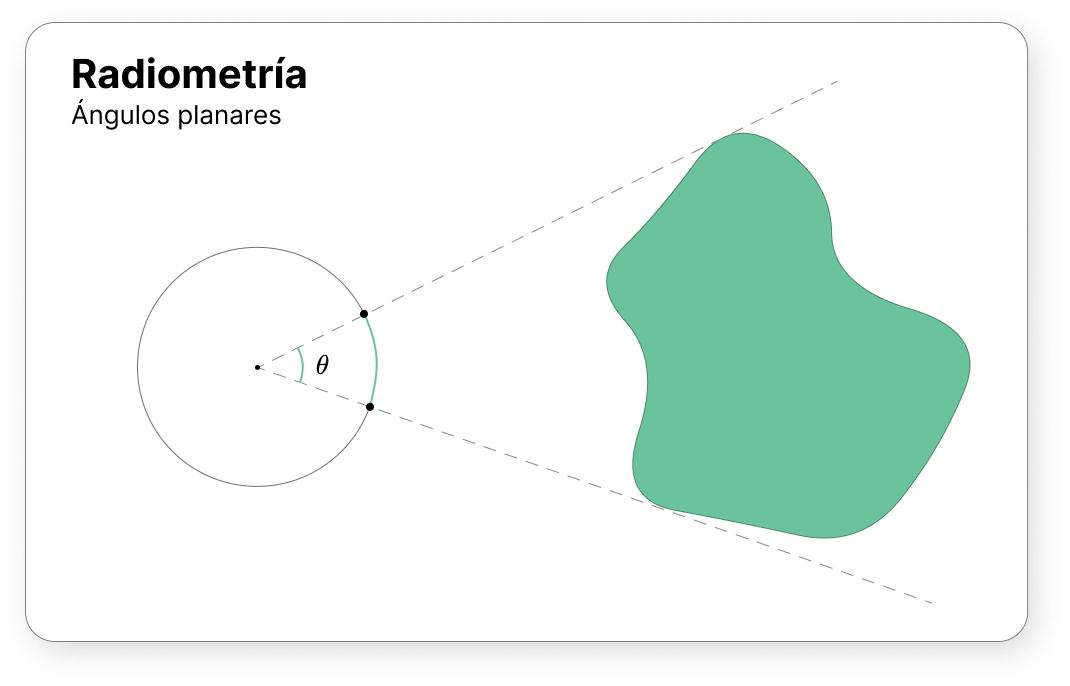
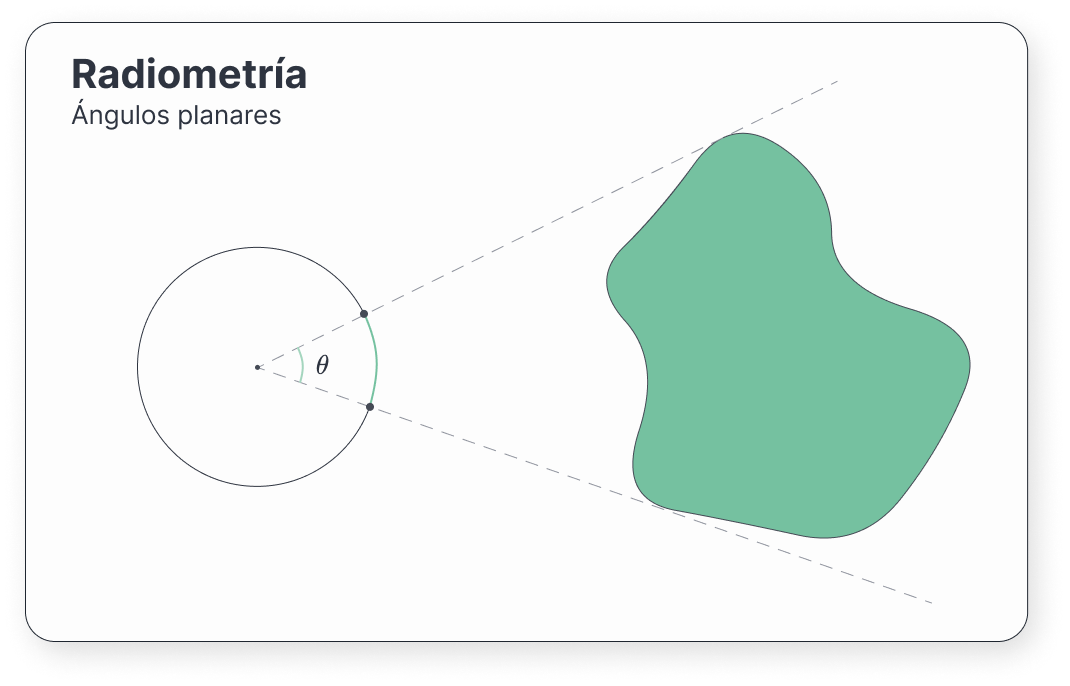
[:notebook:] Añado la paleta de colores

Changed region(s): [[0.0617, 0.0612, 0.3084, 0.1837], [0.2776, 0.5204, 0.3084, 0.551]]

diff --git a/docs/headers/style.css b/docs/headers/style.css
@@ -6,6 +6,44 @@
 
   --b-bg-1: #fdfcfc;
   --b-bg-2: #f7f7f7;
+
+  --blanco-100: hsla(0, 0%, 99%, 1);
+  --blanco-200: hsla(240, 8%, 95%, 1);
+  --gris-300  : hsla(218, 11%, 85%, 1);
+  --gris-500  : hsla(222, 7%, 59%, 1);
+  --negro-700 : hsla(221, 10%, 30%, 1);
+  --negro-800 : hsla(220, 16%, 22%, 1);
+  --negro-900 : hsla(215, 22%, 15%, 1);
+
+  --rojo-clarisimo : hsla(356, 52%, 88%, 1);
+  --rojo-claro     : hsla(357, 47%, 74%, 1);
+  --rojo-primario  : hsla(354, 42%, 56%, 1);
+  --rojo-oscuro    : hsla(352, 28%, 46%, 1);
+  --rojo-oscurisimo: hsla(340, 18%, 33%, 1);
+
+  --naranja-clarisimo : hsla(16, 89%, 89%, 1);
+  --naranja-claro     : hsla(17, 86%, 81%, 1);
+  --naranja-primario  : hsla(17, 77%, 68%, 1);
+  --naranja-oscuro    : hsla(14, 30%, 53%, 1);
+  --naranja-oscurisimo: hsla(4, 15%, 36%, 1);
+
+  --amarillo-clarisimo : hsla(44, 100%, 91%, 1);
+  --amarillo-claro     : hsla(44, 100%, 82%, 1);
+  --amarillo-primario  : hsla(47, 95%, 69%, 1);
+  --amarillo-oscuro    : hsla(45, 35%, 53%, 1);
+  --amarillo-oscurisimo: hsla(43, 15%, 36%, 1);
+
+  --verde-clarisimo : hsla(150, 35%, 87%, 1);
+  --verde-claro     : hsla(152, 37%, 74%, 1);
+  --verde-primario  : hsla(154, 38%, 61%, 1);
+  --verde-oscuro    : hsla(161, 21%, 46%, 1);
+  --verde-oscurisimo: hsla(178, 20%, 33%, 1);
+
+  --azul-clarisimo : hsla(218, 85%, 92%, 1);
+  --azul-claro     : hsla(217, 89%, 85%, 1);
+  --azul-primario  : hsla(215, 91%, 77%, 1);
+  --azul-oscuro    : hsla(216, 32%, 56%, 1);
+  --azul-oscurisimo: hsla(216, 22%, 38%, 1);
 }
 
 html {
